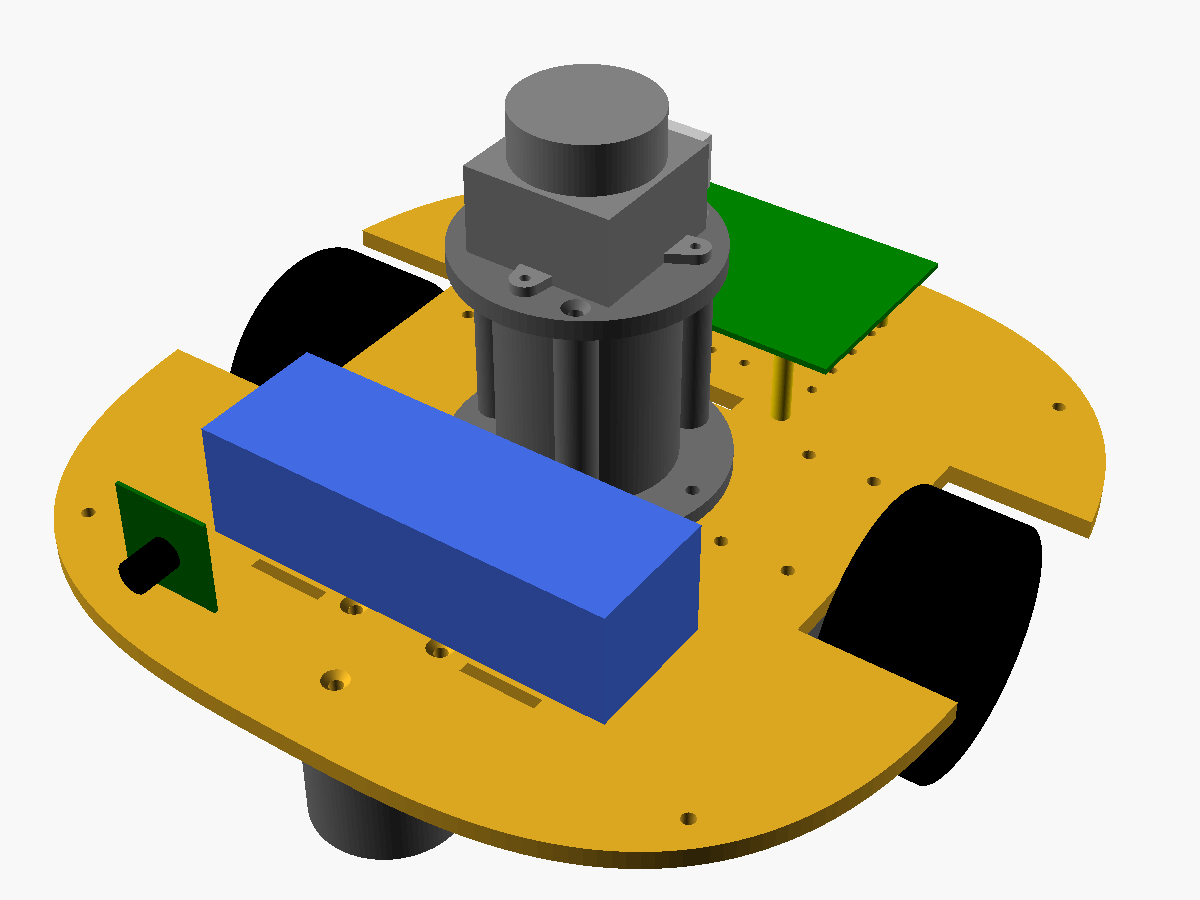
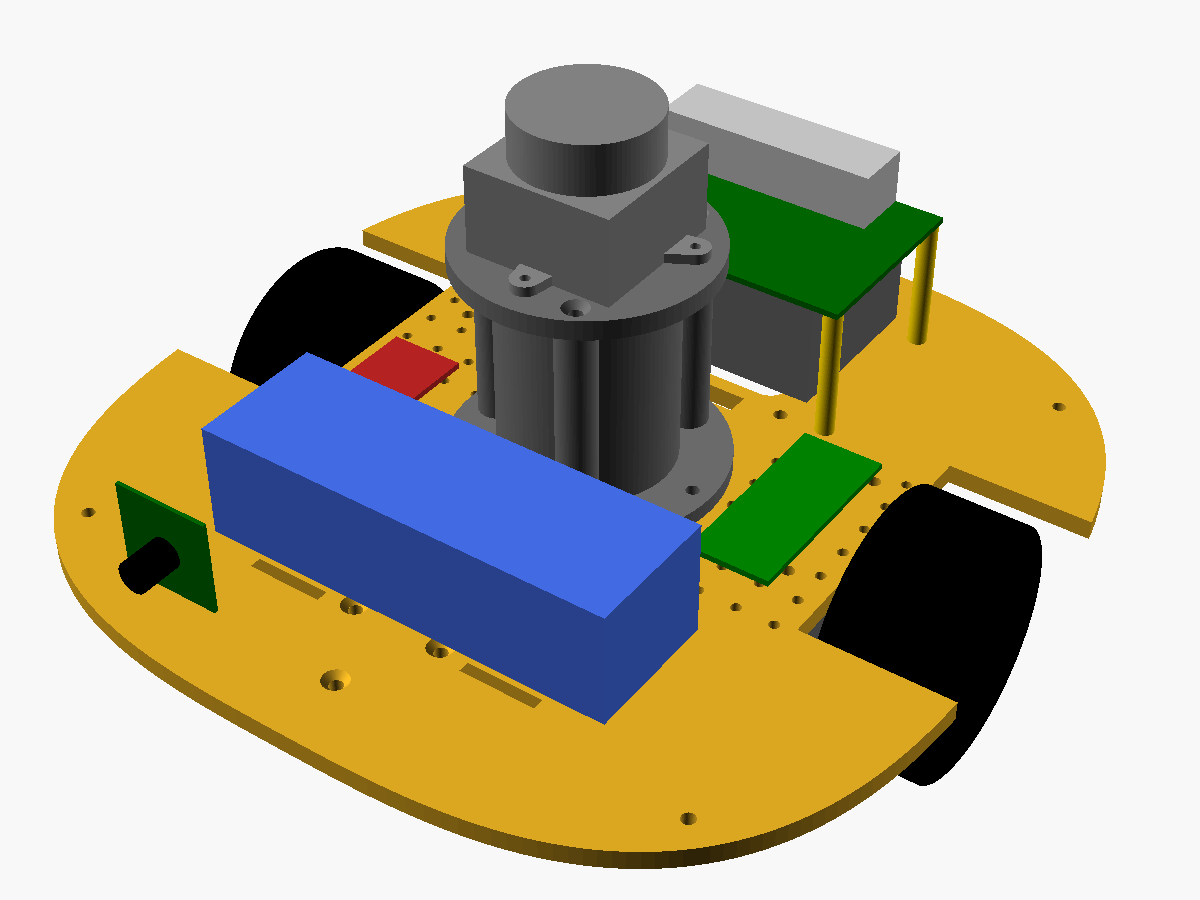
jensen called, he was baking, bumped the raspberry pie off the menu

Changed region(s): [[0.555, 0.0933, 0.8017, 0.6533], [0.2467, 0.84, 0.37, 0.9644], [0.2775, 0.3733, 0.4008, 0.4667]]

diff --git a/hardware/wiring/overview.py b/hardware/wiring/overview.py
@@ -19,9 +19,10 @@ STYLE = {
     "ctrl":  ("#2a9d8f", 4, None,  "Motor control (PWM + direction)"),
     "enc":   ("#2a9d8f", 3, "8 6", "Encoder signals"),
     "uart":  ("#e0a800", 4, None,  "Serial data (UART)"),
+    "usb":   ("#5c677d", 4, None,  "USB (power + data)"),
     "i2c":   ("#277da1", 4, None,  "I²C bus"),
     "swd":   ("#7b2cbf", 3, None,  "Flashing (SWD)"),
-    "csi":   ("#6c757d", 5, None,  "Camera ribbon cable (CSI)"),
+    "csi":   ("#b0b7bf", 5, None,  "Camera ribbon cable (CSI)"),
 }
 
 out = []
@@ -62,12 +63,6 @@ def icon_fuse(cx, cy):
 def icon_switch(cx, cy):
     add(f'<rect x="{cx - 22}" y="{cy - 4}" width="44" height="16" rx="8" fill="#555"/>')
     add(f'<line x1="{cx}" y1="{cy + 4}" x2="{cx + 14}" y2="{cy - 16}" stroke="#333" stroke-width="6" stroke-linecap="round"/>')
-
-
-def icon_buck(cx, cy):
-    pcb(cx, cy, 70, 40, "#2f6f4f")
-    add(f'<circle cx="{cx - 12}" cy="{cy}" r="11" fill="#333"/>')
-    text(cx + 18, cy + 5, "5V", size=12, weight="bold", color="#fff")
 
 
 def icon_driver(cx, cy):
@@ -166,12 +161,10 @@ text(40, 45, "Kiesel – system overview", size=24, weight="bold", anchor="start
 # Wires first, so the cards sit on top of the line ends
 wire("bat", [(200, 140), (230, 140)])
 wire("bat", [(310, 140), (340, 140)])
-wire("bat", [(440, 140), (490, 140)])
 wire("bat", [(390, 185), (390, 330)], "12 V", (390, 300))
+wire("bat", [(440, 140), (920, 140), (920, 320), (950, 320)], "12 V · XT30", (680, 140))
 wire("sense", [(390, 260), (620, 260), (620, 340), (660, 340)], "battery voltage", (505, 260))
-wire("5v", [(660, 140), (900, 140), (900, 320), (950, 320)], "5 V · USB-C", (780, 140))
 wire("5v", [(950, 405), (810, 405)], "5 V", (880, 405))
-wire("5v", [(1040, 300), (1040, 210)])
 wire("ctrl", [(660, 390), (450, 390)], "PWM + direction", (555, 390))
 wire("motor", [(320, 450), (320, 560), (130, 560), (130, 620)], "motor power", (225, 560))
 wire("motor", [(390, 450), (390, 620)])
@@ -179,7 +172,7 @@ wire("enc", [(480, 685), (600, 685), (600, 520), (660, 520)])
 wire("enc", [(130, 750), (130, 790), (620, 790), (620, 555), (660, 555)], "encoders", (380, 790))
 wire("uart", [(810, 370), (950, 370)], "micro-ROS (UART)", (880, 370))
 wire("swd", [(950, 440), (810, 440)], "flashing (SWD)", (880, 440))
-wire("uart", [(1110, 210), (1110, 300)], "scan data (UART)", (1180, 255))
+wire("usb", [(1080, 210), (1080, 300)], "power + scan data (USB)", (1080, 255))
 wire("csi", [(1290, 395), (1210, 395)])
 wire("i2c", [(735, 600), (735, 700)])
 wire("i2c", [(735, 650), (915, 650), (915, 700)], "I²C", (825, 650))
@@ -187,14 +180,13 @@ wire("i2c", [(735, 650), (915, 650), (915, 700)], "I²C", (825, 650))
 card(40, 80, 160, 120, icon_battery, "Battery", "3S LiPo")
 card(230, 100, 80, 80, icon_fuse, "Fuse", "", icon_dy=30)
 card(340, 95, 100, 90, icon_switch, "Switch", "", icon_dy=34)
-card(490, 80, 170, 120, icon_buck, "Buck converter", "12 V → 5 V, USB-C")
 card(270, 330, 180, 120, icon_driver, "Motor driver", "TB6612FNG")
 card(40, 620, 180, 130, icon_motor, "Left motor", "JGA25-370 + encoder", icon_dy=48)
 card(300, 620, 180, 130, icon_motor, "Right motor", "JGA25-370 + encoder", icon_dy=48)
 card(660, 300, 150, 300, icon_pico, "Microcontroller", "Pi Pico 2 H", "motors · odometry · IMU", icon_dy=120)
-card(950, 300, 260, 190, icon_pi, "Computer", "Raspberry Pi 5", "ROS 2 · SLAM · navigation", icon_dy=70)
+card(950, 300, 260, 190, icon_pi, "Single-board computer", "e.g. Jetson Orin NX (Seeed A603)", "ROS 2 · SLAM · navigation", icon_dy=70)
 card(990, 80, 180, 130, icon_lidar, "Lidar", "LDROBOT D500", icon_dy=50)
-card(1290, 330, 160, 130, icon_camera, "Camera", "Pi Camera Module 3", icon_dy=48)
+card(1290, 330, 160, 130, icon_camera, "Camera", "e.g. IMX219 camera", icon_dy=48)
 card(640, 700, 150, 120, icon_imu, "IMU", "ICM-42688-P")
 card(830, 700, 170, 120, icon_tof, "Distance sensor", "VL53L1X (optional)", dashed=True)
 
@@ -208,7 +200,7 @@ for i, (color, width, dash, label) in enumerate(STYLE.values()):
     add(f'<line x1="{lx}" y1="{y}" x2="{lx + 50}" y2="{y}" stroke="{color}" stroke-width="{width}" stroke-linecap="round"{dash_attr}/>')
     text(lx + 64, y + 4, label, size=13, anchor="start")
 
-text(40, 875, "All grounds (GND) are connected – not shown. Pin-level wiring will follow.", size=12, color="#777", anchor="start")
+text(40, 872, "All grounds (GND) are connected – not shown.", size=15, color="#555", anchor="start")
 add("</svg>")
 
 Path(__file__).with_name("overview.svg").write_text("\n".join(out) + "\n", encoding="utf-8")

diff --git a/README.md b/README.md
@@ -8,7 +8,7 @@ Kiesel is going to be a small, pebble-shaped robot for indoor use: it should bui
   <img src="hardware/cad/kiesel_render.png" width="49%" alt="Kiesel with shell">
   <img src="hardware/cad/kiesel_render_offen.png" width="49%" alt="Kiesel without shell">
 </p>
-<p align="center"><sub>OpenSCAD model with placeholder components. Right, without the shell: battery (blue) at the front, lidar tower in the center, single-board computer (green) at the back. The camera board (left in the image) is actually mounted to the shell behind the right eye.</sub></p>
+<p align="center"><sub>OpenSCAD model with placeholder components. Right, without the shell: battery (blue) at the front, lidar tower in the center, computer (Jetson Orin NX on its carrier) at the back. The camera board (left in the image) is actually mounted to the shell behind the right eye.</sub></p>
 
 ## What we're planning
 
@@ -32,7 +32,7 @@ Kiesel is going to be a small, pebble-shaped robot for indoor use: it should bui
 - [ ] Print and assemble base plate, lidar tower and shell
 
 ### Phase 3 – Electronics & firmware
-- [ ] Wiring: battery, motor driver, buck converter, microcontroller ⇄ computer via UART
+- [ ] Wiring: battery, motor driver, microcontroller ⇄ computer via UART
 - [ ] Microcontroller firmware: encoder counting, PWM, PID speed control, IMU, battery monitoring, watchdog, micro-ROS
 
 ### Phase 4 – ROS 2
@@ -55,16 +55,18 @@ Generated from [`hardware/wiring/overview.py`](hardware/wiring/overview.py). Pin
 | Drive | 2 × JGA25-370, 12 V, 170 rpm, Hall encoders, 65 mm wheels |
 | Track width | 176 mm (axle 12 mm behind the robot center) |
 | Caster | front, swivel caster with 30 mm rubber wheel (handles door thresholds) |
-| Battery | 3S LiPo (XT60), in front of the axle, 7.5 A fuse |
-| Power | 12 V → 5 V/5 A buck converter with USB-C output for the Pi 5 |
+| Battery | 3S LiPo (XT60), in front of the axle, 10 A fuse |
+| Power | Single-board computer directly from the battery (9–20 V input); the microcontroller takes 5 V from its header |
 | Motor driver | TB6612FNG |
 | Microcontroller | Raspberry Pi Pico 2 H (RP2350), micro-ROS over UART |
-| Computer | Raspberry Pi 5 |
+| Single-board computer | NVIDIA Jetson Orin NX on a Seeed A603 carrier (any other SBC, e.g. a Raspberry Pi 5, works too) |
 | Lidar | LDROBOT D500 (STL-19P), 360°, 0.03–12 m, 10 Hz |
-| Camera | Pi Camera Module 3 |
+| Camera | IMX219 camera (15-pin CSI) |
 | IMU | TDK ICM-42688-P (6-axis), fused with wheel odometry |
 | Optional | VL53L1X distance sensor (ToF) in the left eye |
 | Speed | ≈ 0.5 m/s |
+
+**Another single-board computer instead of the Jetson?** Kiesel stays universal: any SBC that fits behind the lidar tower can be used, e.g. a Raspberry Pi 5 (the base plate already has its mounting holes). SBCs that run on 5 V get a 12 V → 5 V buck converter (for the Pi 5: 5 A with USB-C output); the camera depends on the SBC (e.g. Pi Camera Module 3 for the Pi 5). Details in the docs, once published.
 
 ## Design overview
 
